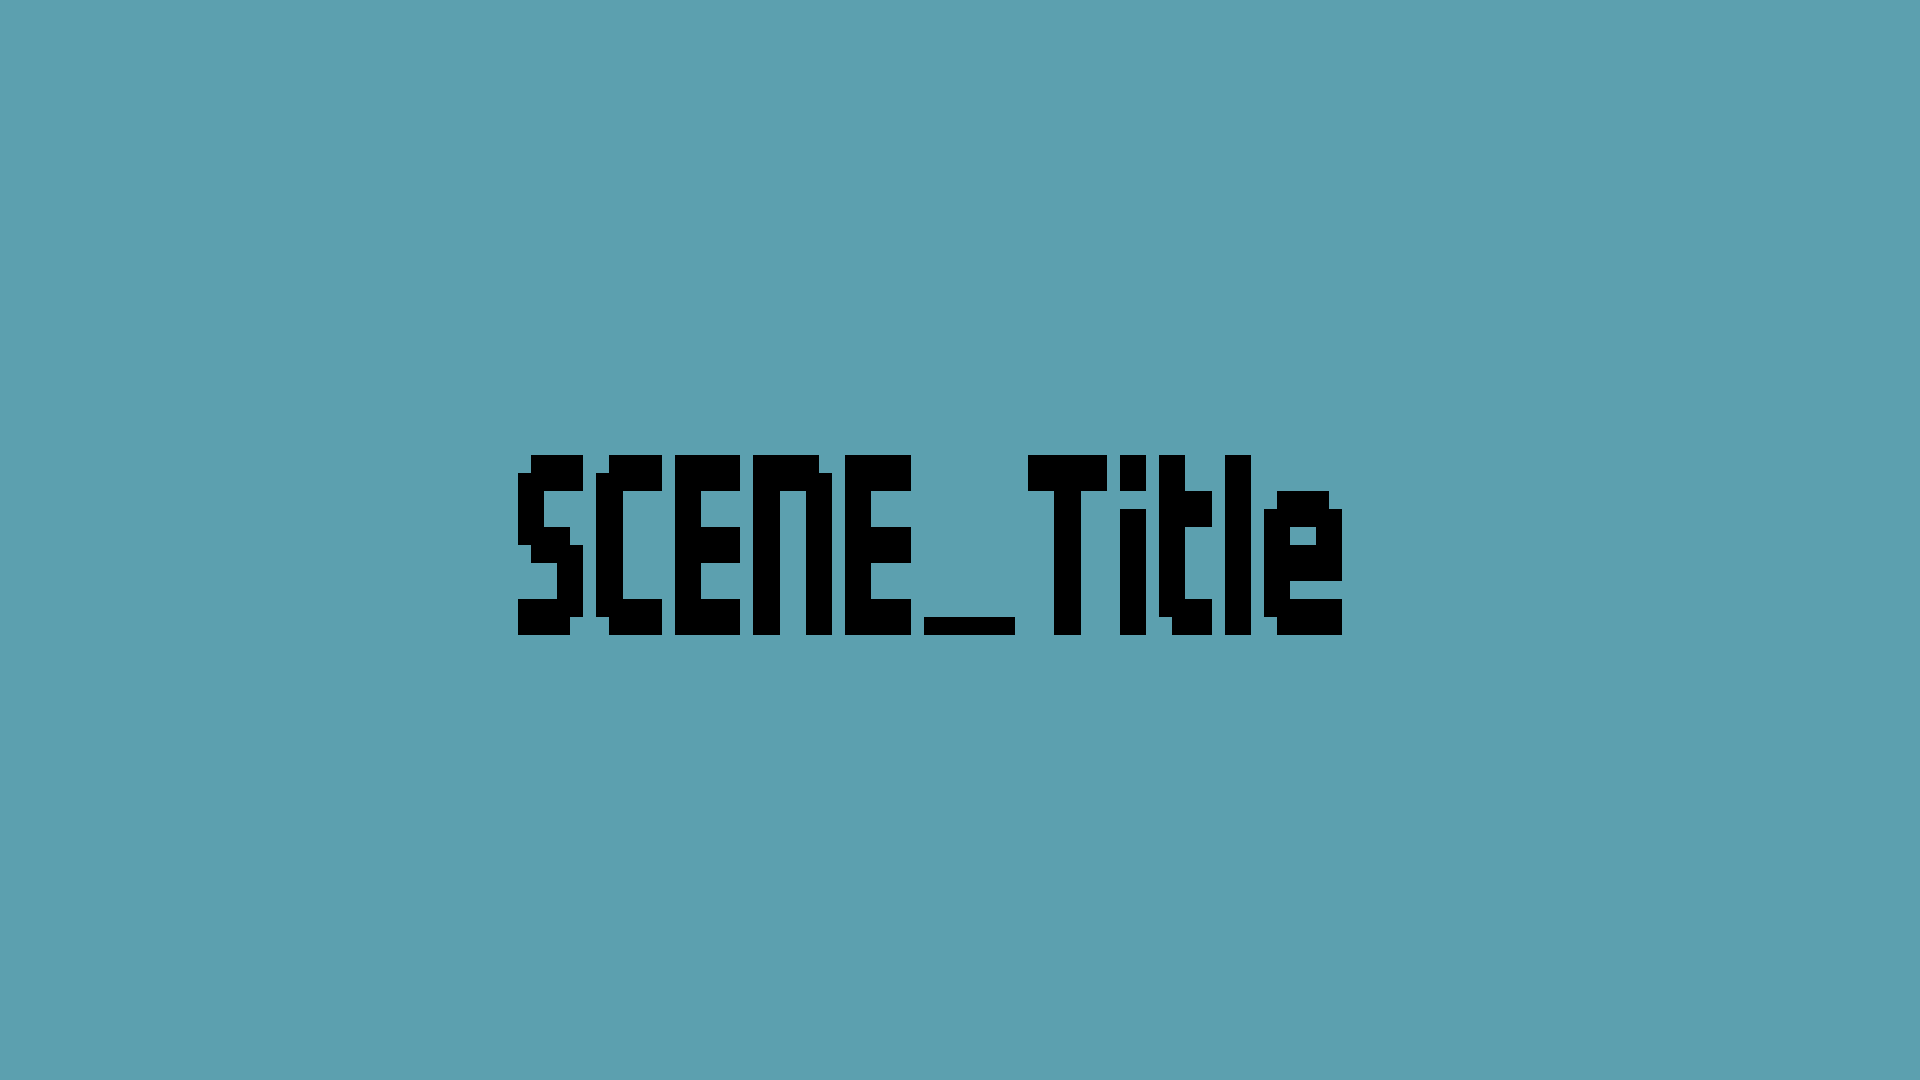
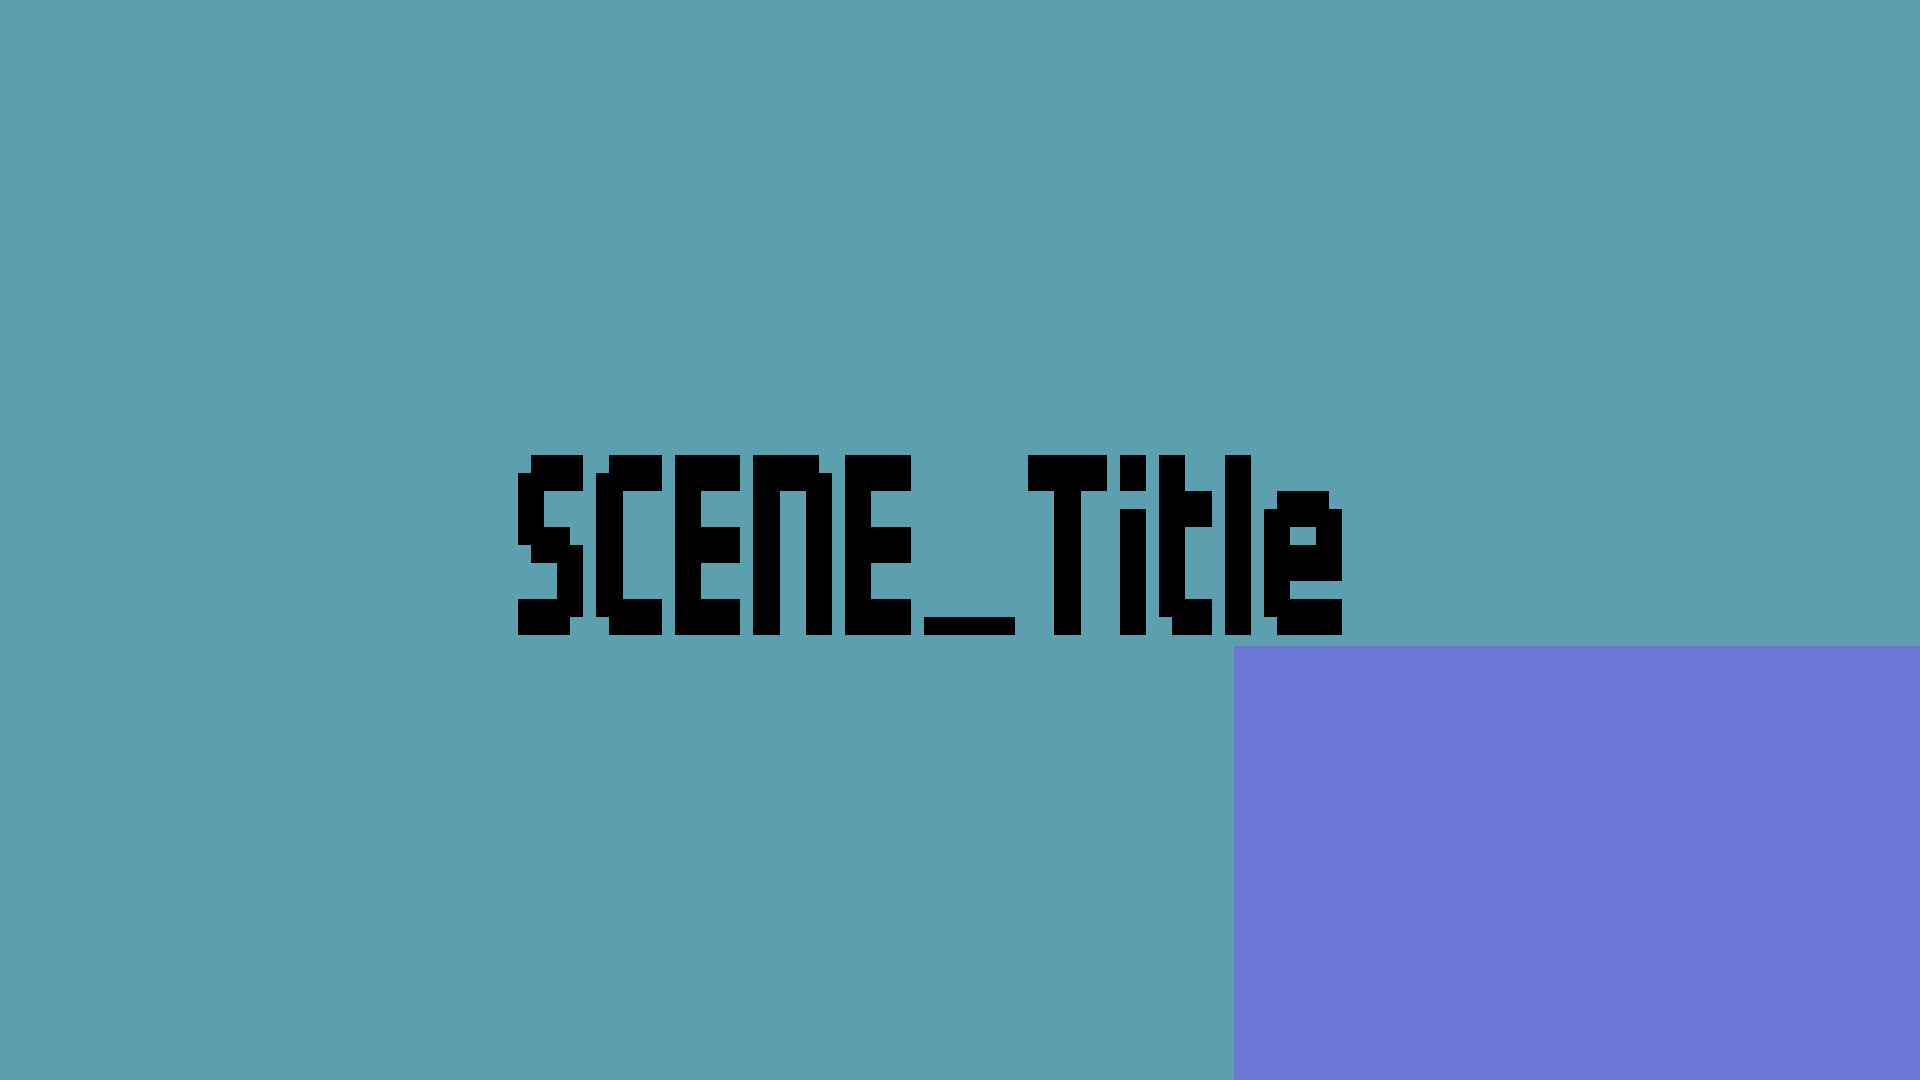
10月15日1回目

Changed region(s): [[0.625, 0.5806, 1.0, 1.0]]

diff --git a/game.h b/game.h
@@ -3,6 +3,15 @@
 
 // 宣言
 
+// シーン処理
+enum Scene
+{
+	kSceneTitle,
+	kSceneGame,
+	kSceneClear,
+	kSceneGameOver
+};
+
 // ウィンドウサイズ
 const int kWindowWidth = 1920;
 const int kWindowHeight = 1080;
@@ -78,12 +87,3 @@ void DrawPlayer(
 	const Camera& camera,
 	int playerTexture
 );
-
-// シーン処理
-enum Scene
-{
-	kSceneTitle,
-	kSceneGame,
-	kSceneClear,
-	kSceneGameOver
-};

diff --git a/main.cpp b/main.cpp
@@ -36,6 +36,14 @@ int WINAPI WinMain(
 			"gameWindow is nullptr\n"
 		);
 	}
+#pragma region // タイトル
+	// 矢印
+	/*int title_arrowTexture = 
+		Novice::title_arrowTexture("./images/UnderConstruction/title_arrow.png");*/
+
+
+
+#pragma endregion
 
 	// 画像の読み込み
 	// 壁のデータ

diff --git a/scene.cpp b/scene.cpp
@@ -2,3 +2,5 @@
 
 // ゲーム　シーン切り替え
 // プレイヤー処理の定義
+
+
